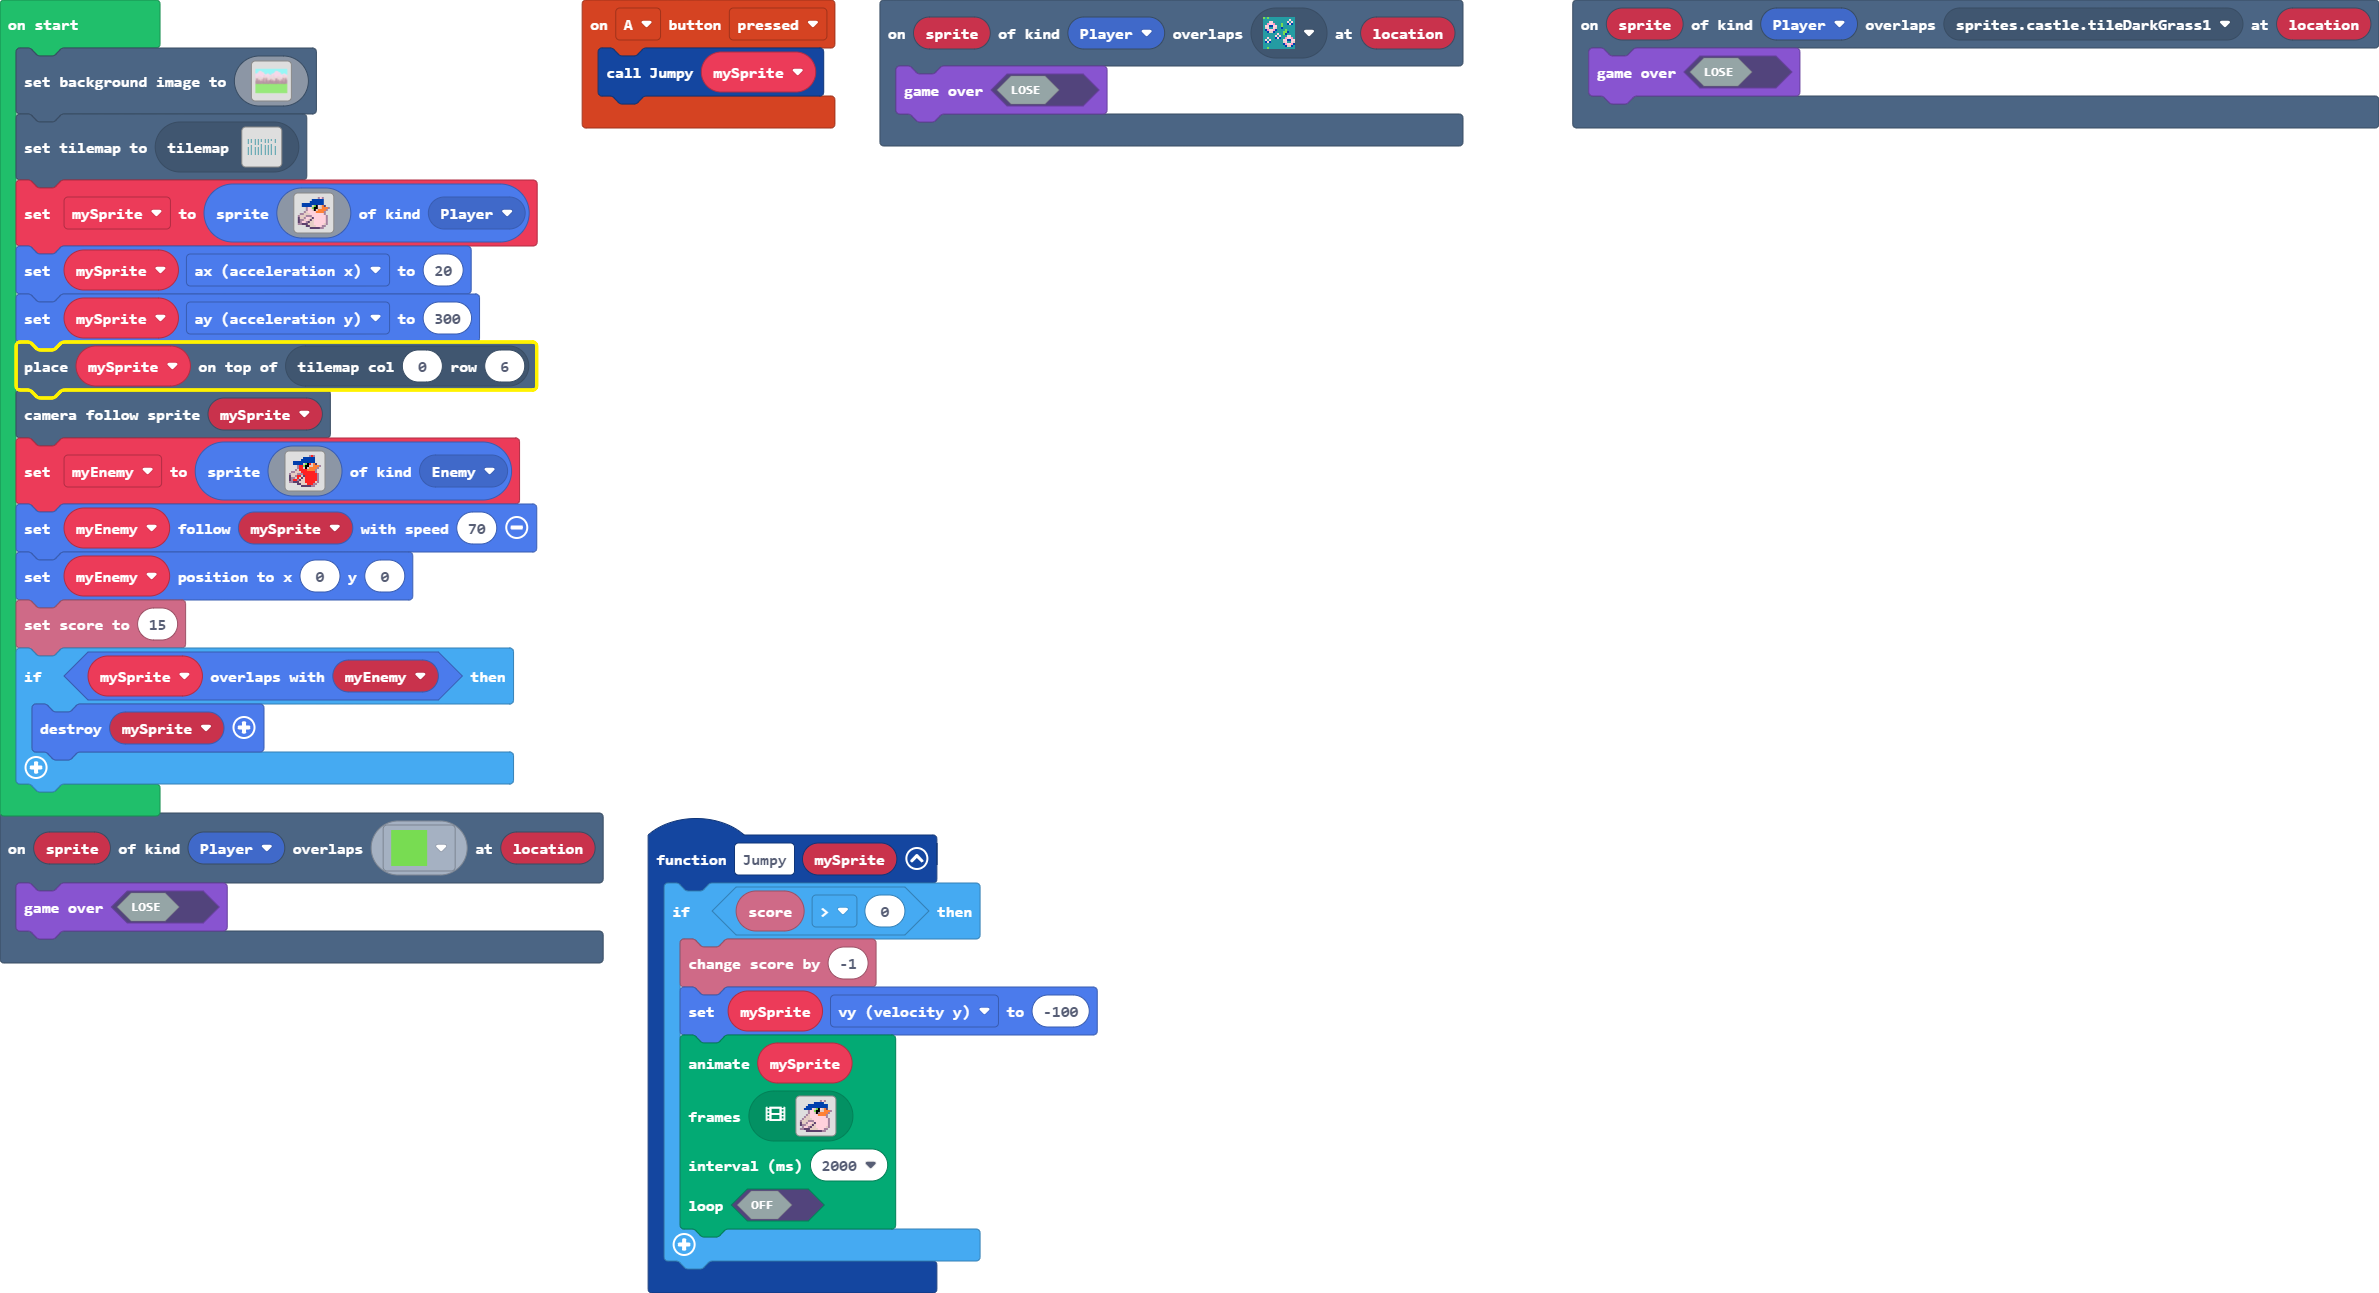
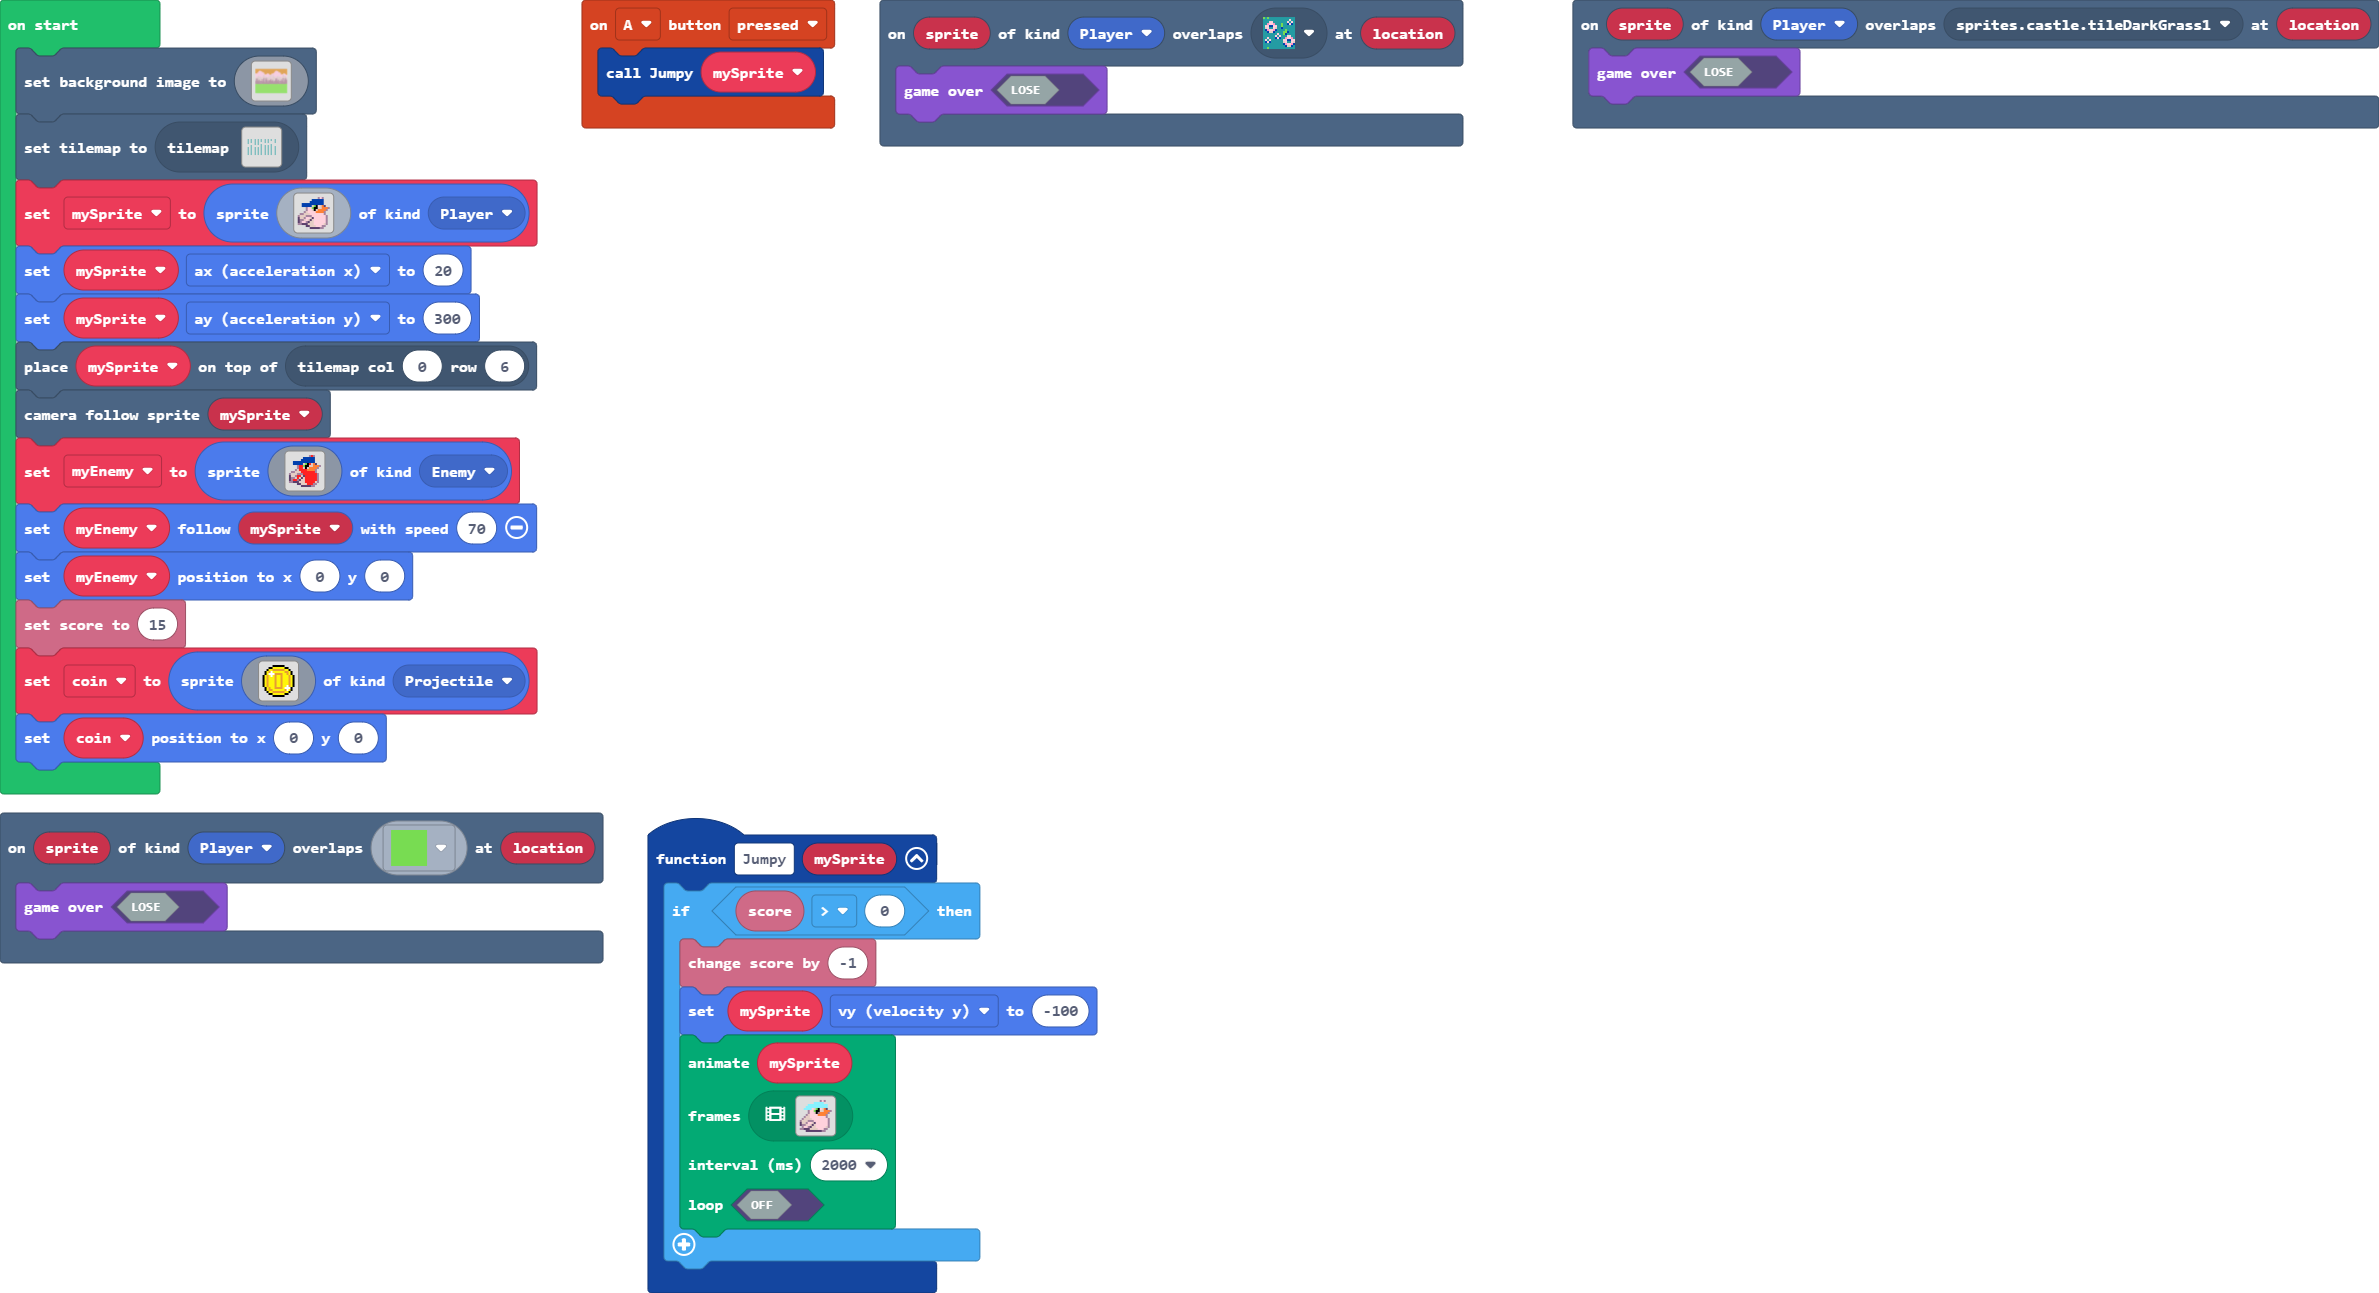
Coins + other stuff

diff --git a/main.ts b/main.ts
@@ -199,10 +199,10 @@ scene.setBackgroundImage(img`
 tiles.setCurrentTilemap(tilemap`level3`)
 mySprite = sprites.create(img`
     . . . . . . . . . . b 1 b . . . 
-    . . . . . . . 8 8 8 8 8 8 . . . 
-    . . . . . . 8 8 8 8 8 8 8 . . . 
-    . . 8 8 8 8 8 8 8 8 8 8 8 . . . 
-    . . 8 8 8 8 8 d 7 f 1 d 4 c . . 
+    . . . . . . . a a a a a a . . . 
+    . . . . . . a a a a a a a . . . 
+    . . a a a a a a a a a a a . . . 
+    . . a a a a a d 7 f 1 d 4 c . . 
     . . . . b 1 1 7 f f d d 4 4 4 b 
     . . . . b 1 1 d f d 4 4 4 4 b . 
     . . . b d 1 1 1 1 4 4 4 4 b . . 
@@ -221,10 +221,10 @@ tiles.placeOnTile(mySprite, tiles.getTileLocation(0, 6))
 scene.cameraFollowSprite(mySprite)
 let myEnemy = sprites.create(img`
     . . . . . . . . . . b 2 b . . . 
-    . . . . . . . 8 8 8 8 8 8 . . . 
-    . . . . . . 8 8 8 8 8 8 8 . . . 
-    . . 8 8 8 8 8 8 8 8 8 8 8 . . . 
-    . . 8 8 8 8 8 d 7 f 2 d 4 c . . 
+    . . . . . . . a a a a a a . . . 
+    . . . . . . a a a a a a a . . . 
+    . . a a a a a a a a a a a . . . 
+    . . a a a a a d 7 f 2 d 4 c . . 
     . . . . b 2 2 7 f f d d 4 4 4 b 
     . . . . b 2 2 d f d 4 4 4 4 b . 
     . . . b d 2 2 2 2 4 4 4 4 b . . 
@@ -240,6 +240,22 @@ let myEnemy = sprites.create(img`
 myEnemy.follow(mySprite, 70)
 myEnemy.setPosition(0, 0)
 info.setScore(15)
-if (mySprite.overlapsWith(myEnemy)) {
-    sprites.destroy(mySprite)
-}
+let coin = sprites.create(img`
+    . . . . . f f f f f f . . . . . 
+    . . . f f 5 5 5 5 5 5 f f . . . 
+    . . f 5 5 9 9 9 9 9 9 5 5 f . . 
+    . f 5 9 3 5 5 5 5 5 5 9 9 5 f . 
+    . f 5 3 3 3 9 9 9 9 5 5 9 5 f . 
+    f 5 9 5 3 5 9 5 5 9 5 5 5 9 5 f 
+    f 5 9 5 5 5 9 5 5 9 5 5 5 9 5 f 
+    f 5 9 5 5 5 9 5 5 9 5 5 5 9 5 f 
+    f 5 9 5 5 5 9 5 5 9 5 5 5 9 5 f 
+    f 5 9 5 5 5 9 5 5 9 5 5 5 9 5 f 
+    f 5 9 5 5 5 9 5 5 9 5 5 3 9 5 f 
+    . f 5 9 5 5 9 9 9 9 5 3 3 3 f . 
+    . f 5 9 9 5 5 5 5 5 5 9 3 5 f . 
+    . . f 5 5 9 9 9 9 9 9 5 5 f . . 
+    . . . f f 5 5 5 5 5 5 f f . . . 
+    . . . . . f f f f f f . . . . . 
+    `, SpriteKind.Projectile)
+coin.setPosition(0, 0)

diff --git a/tilemap.g.ts b/tilemap.g.ts
@@ -102,6 +102,25 @@ namespace myTiles {
 . . . . . . . . . . . . . . . . 
 . . . . . . . . . . . . . . . . 
 `, [myTiles.transparency16], TileScale.Sixteen);
+            case "level6":
+            case "level6":return tiles.createTilemap(hex`1000100000000000000000000000000000000000000000000000000000000000000000000000000000000000000000000000000000000000000000000000000000000000000000000000000000000000000000000000000000000000000000000000000000000000000000000000000000000000000000000000000000000000000000000000000000000000000000000000000000000000000000000000000000000000000000000000000000000000000000000000000000000000000000000000000000000000000000000000000000000000000000000000000000000000000000000000000000000000000000000000000000000000000000000000000000000000`, img`
+. . . . . . . . . . . . . . . . 
+. . . . . . . . . . . . . . . . 
+. . . . . . . . . . . . . . . . 
+. . . . . . . . . . . . . . . . 
+. . . . . . . . . . . . . . . . 
+. . . . . . . . . . . . . . . . 
+. . . . . . . . . . . . . . . . 
+. . . . . . . . . . . . . . . . 
+. . . . . . . . . . . . . . . . 
+. . . . . . . . . . . . . . . . 
+. . . . . . . . . . . . . . . . 
+. . . . . . . . . . . . . . . . 
+. . . . . . . . . . . . . . . . 
+. . . . . . . . . . . . . . . . 
+. . . . . . . . . . . . . . . . 
+. . . . . . . . . . . . . . . . 
+`, [myTiles.transparency16], TileScale.Sixteen);
         }
         return null;
     })
